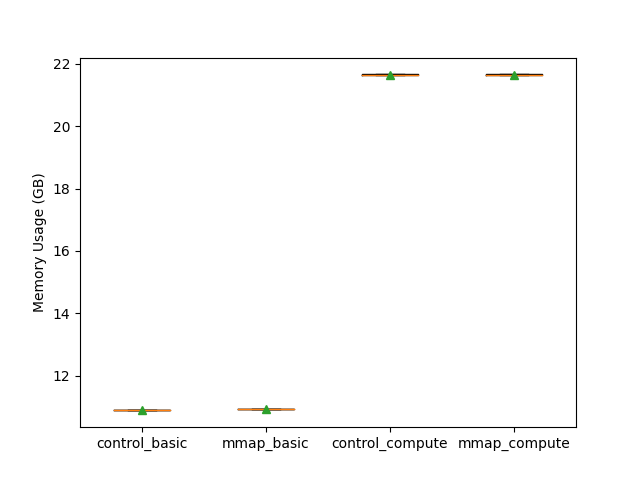
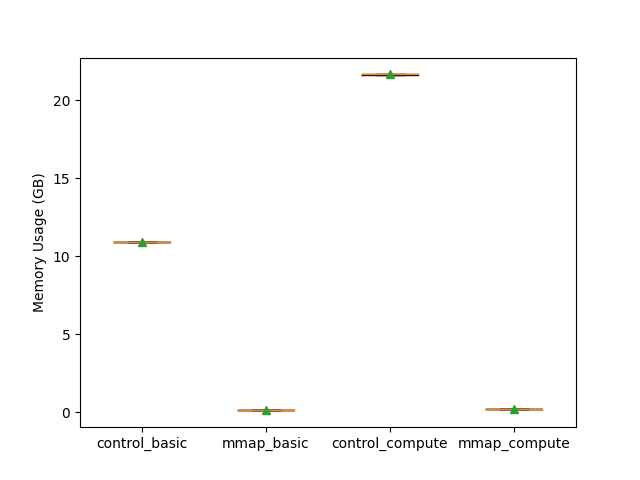
residuals in an array: good for mmap
$ python3 colbert/tests/mmap_test.py --target_dir=./experiments/mmap_test --test_iter=1

Starting MMap stress test

Starting random file read control test from /lfs/1/udingank/msmarco.nbits-2.latest
Starting iteration 0
copying cycle 0

Starting random file read mmap test from /lfs/1/udingank/msmarco.nbits-2.latest
Starting iteration 0
copying cycle 0

Saving Results
--------------
Results saved to ./experiments/mmap_test/results-hdd.png

control_basic: 10.89 GB
mmap_basic: 0.13 GB
control_compute: 21.65 GB
mmap_compute: 0.24 GB

Timing Summary
--------------

Timing   |  Control  |  MMap
-----------|-----------|--------------
read time | 39.59894  |  0.00739
copy time | 0.83345  |  0.04660
compute  | 0.00209  |  0.00026
total   | 16.00939  |  0.73817

Starting random file read control test from /lfs/0/udingank/msmarco.nbits-2.latest
Starting iteration 0
copying cycle 0

Starting random file read mmap test from /lfs/0/udingank/msmarco.nbits-2.latest
Starting iteration 0
copying cycle 0

Saving Results
--------------
Results saved to ./experiments/mmap_test/results-ssd.png

control_basic: 10.89 GB
mmap_basic: 0.14 GB
control_compute: 21.65 GB
mmap_compute: 0.24 GB

Timing Summary
--------------

Timing   |  Control  |  MMap
-----------|-----------|--------------
read time | 39.59894  |  0.00739
copy time | 0.83345  |  0.04660
compute  | 0.00209  |  0.00026
total   | 16.00939  |  0.73817

Finished MMap stress test

diff --git a/colbert/tests/mmap_test.py b/colbert/tests/mmap_test.py
@@ -42,7 +42,10 @@ control_timing = []
 mmap_timing = []
 
 def read_residuals(mmap, filepath, proc, q):
-    mem_buf = torch.empty(0)
+    if mmap:
+        mem_buf = []
+    else:
+        mem_buf = torch.empty(0)
 
     for i in range(NUM_RES_FILES):
         filename = os.path.join(filepath, "{}.residuals.pt".format(i))
@@ -54,7 +57,7 @@ def read_residuals(mmap, filepath, proc, q):
             storage = torch.ByteStorage.from_file(filename, shared=False, size=TensorSizes[i])
 
         if mmap:
-            mem_buf = torch.cat([mem_buf, torch.ByteTensor(storage)])
+            mem_buf.append(torch.ByteTensor(storage))
         else:
             temp = torch.load(filename, map_location='cpu')
             mem_buf = torch.cat([mem_buf, temp])
@@ -76,6 +79,12 @@ def read_into_buffer(mmap, filepath, q):
     # read from residual files into mem_buf
     start_time = time.time()
     mem_buf = read_residuals(mmap, filepath, proc, q)
+    if not mmap:
+        temp = torch.flatten(mem_buf)
+        mem_buf = temp
+        del temp
+        gc.collect()
+        TEST_FILE_SIZE = mem_buf.nelement()
 
     fetch_time = time.time()
 
@@ -88,11 +97,20 @@ def read_into_buffer(mmap, filepath, q):
             print("copying cycle {}".format(i))
 
         rand_time_start = time.time()
-        start = random.randrange(0, TEST_FILE_SIZE)
-        end = max(start + TEST_CHUNK_SIZE, TEST_FILE_SIZE)
 
-        temp = mem_buf[start:end]
+        if mmap:
+            res = random.randrange(0, NUM_RES_FILES)
+            res_size = TensorSizes[res]
+            start = random.randrange(res_size - TEST_CHUNK_SIZE)
+            end = min(start + TEST_CHUNK_SIZE, res_size)
+            temp = mem_buf[0][start:end]
+        else:
+            start = random.randrange(0, TEST_FILE_SIZE)
+            end = min(start + TEST_CHUNK_SIZE, TEST_FILE_SIZE)
+            temp = mem_buf[start:end]
+
         new_buf = copy.deepcopy(temp)
+
         del temp
         gc.collect()
 
